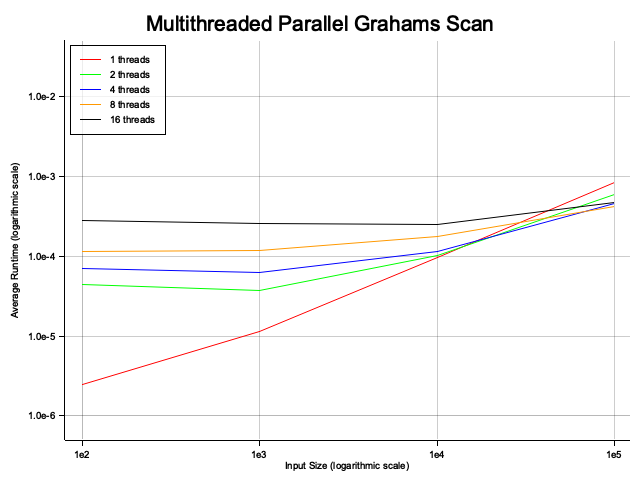
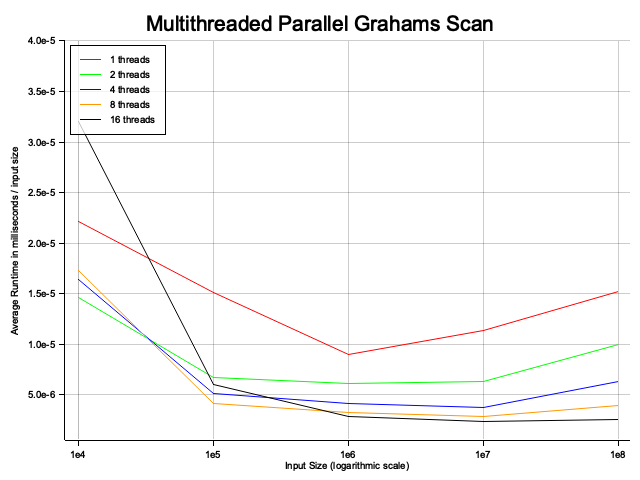
change plots to be divided by input size

diff --git a/project_2/src/main.rs b/project_2/src/main.rs
@@ -15,12 +15,12 @@ mod types;
 mod utils;
 
 fn main() {
-    let input_sizes: Vec<i64> = (2..=8).map(|exp| 10i64.pow(exp)).collect();
+    let input_sizes: Vec<i64> = (4..=8).map(|exp| 10i64.pow(exp)).collect();
 
     //different_inputs_runtime(input_sizes.clone());
-    upper_hull_size(input_sizes.clone());
-    //parallel_runtime(input_sizes);
-    
+    //upper_hull_size(input_sizes.clone());
+    parallel_runtime(input_sizes);
+
     //upper_hull()
 }
 
@@ -107,7 +107,7 @@ fn different_inputs_runtime(input_sizes: Vec<i64>) {
                 let avg_runtime = total_runtime / 5.0;
                 println!("{}: {}", input_size, avg_runtime);
 
-                experiment.run_times.push(avg_runtime);
+                experiment.run_times.push(avg_runtime * 1000.0 / *input_size as f64);
             }
 
             input_plot.experiments.push(experiment);
@@ -250,7 +250,7 @@ fn parallel_runtime(input_sizes: Vec<i64>) {
         input_sizes: input_sizes.clone(),
         algorithm: grahams_scan_parallel,
         args: (Option::from(false), Option::from(1)),
-        y_range: 5e-7..5e-2,
+        y_range: 5e-7..4e-5,
     };
 
     for thread in threads {
@@ -286,7 +286,7 @@ fn parallel_runtime(input_sizes: Vec<i64>) {
             let avg_runtime = total_runtime / 5.0;
             println!("{}: {}", input_size, avg_runtime);
 
-            experiment.run_times.push(avg_runtime);
+            experiment.run_times.push(avg_runtime * 1000.0 / *input_size as f64);
         }
         grahams_parallel_different_threads
             .experiments

diff --git a/project_2/src/plotting.rs b/project_2/src/plotting.rs
@@ -17,14 +17,14 @@ pub fn plot(plot: Plot) {
         .caption(plot.title, ("sans-serif", 26).into_font())
         .x_label_area_size(30)
         .y_label_area_size(55)
-        .build_cartesian_2d((x_first..x_last).log_scale(), plot.y_range.log_scale())
+        .build_cartesian_2d((x_first..x_last).log_scale(), plot.y_range)
         .unwrap();
 
     chart
         .configure_mesh()
         .max_light_lines(0)
         .y_label_formatter(&|y| format!("{:.1e}", y))
-        .y_desc("Average Runtime (logarithmic scale)")
+        .y_desc("Average Runtime in milliseconds / input size")
         .x_label_formatter(&|x| format!("{:.0e}", x))
         .x_desc("Input Size (logarithmic scale)")
         .draw()
@@ -117,12 +117,16 @@ pub fn plot_upper_hull_points(plot: Plot) {
 }
 
 pub fn plot_upper_hull(points: PointVector) {
-    let root = BitMapBackend::new("project_2/plots/upper_hull_us_gs.png", (480, 480)).into_drawing_area();
+    let root =
+        BitMapBackend::new("project_2/plots/upper_hull_us_gs.png", (480, 480)).into_drawing_area();
     let _ = root.fill(&WHITE);
     let root = root.margin(10, 10, 10, 10);
 
     let mut chart = ChartBuilder::on(&root)
-        .caption("Uniform Square - Grahams Scan", ("sans-serif", 26).into_font())
+        .caption(
+            "Uniform Square - Grahams Scan",
+            ("sans-serif", 26).into_font(),
+        )
         .x_label_area_size(35)
         .y_label_area_size(35)
         .build_cartesian_2d(-25i64..525i64, -25i64..525i64)
